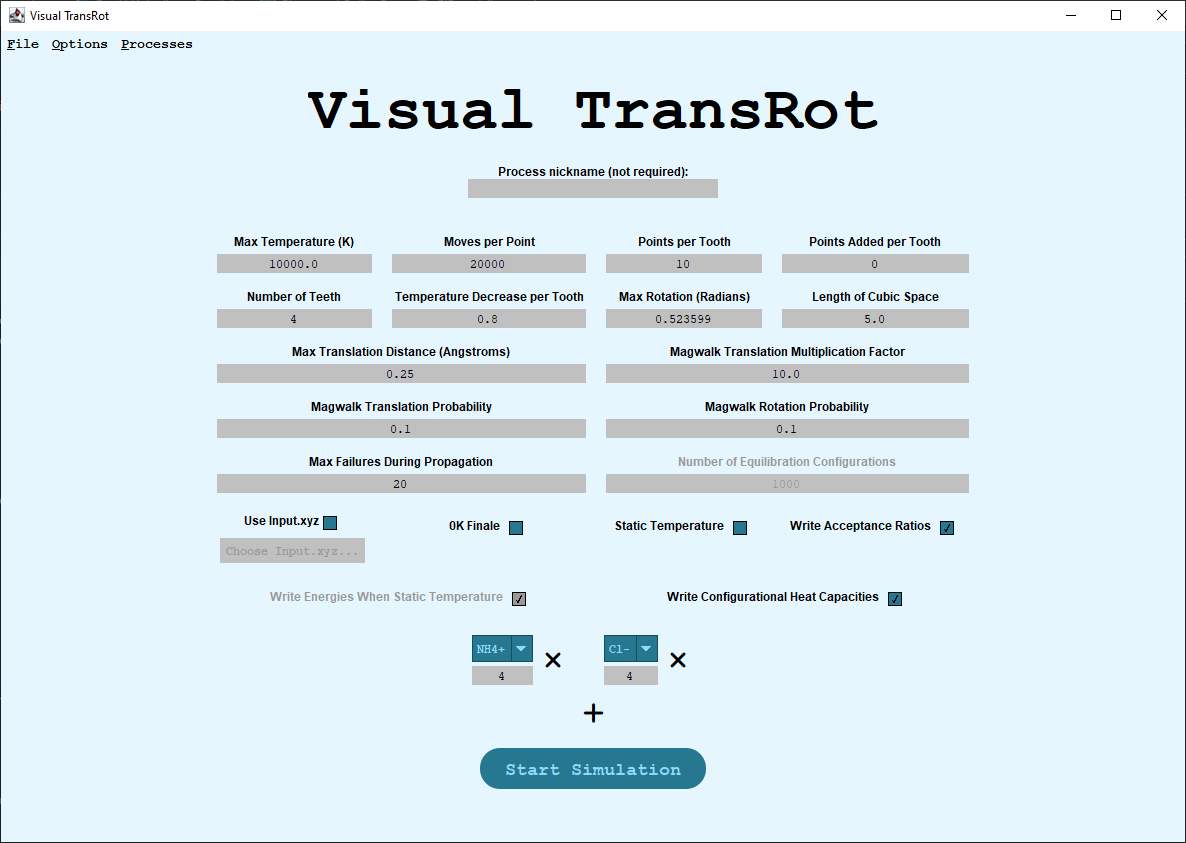
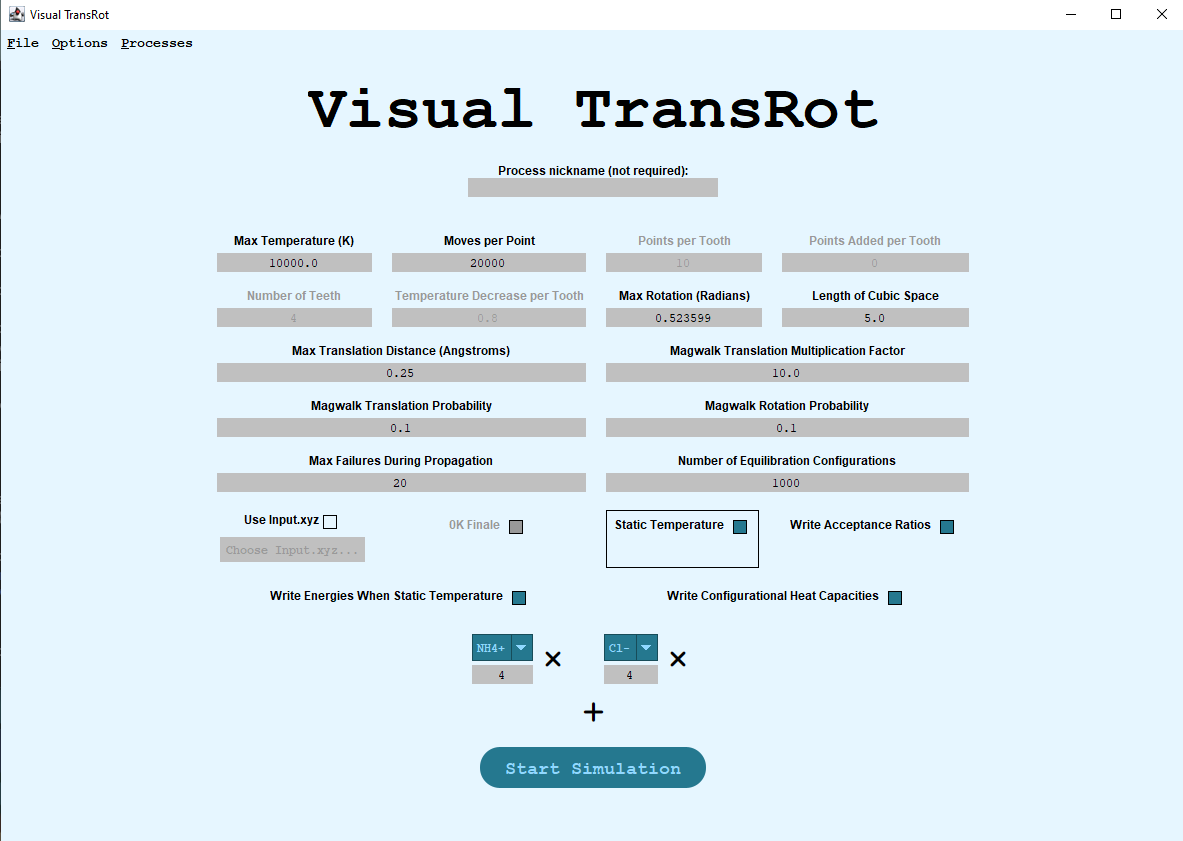
bugfixes

diff --git a/src/process/ProcessStruct.java b/src/process/ProcessStruct.java
@@ -25,6 +25,8 @@ public class ProcessStruct {
         }
     }
 
+    private long startTime = -1;
+
     private final List<ProcessLogListener> logListeners = new ArrayList<>();
     private final List<ProcessExitListener> exitListeners = new ArrayList<>();
 
@@ -37,7 +39,7 @@ public class ProcessStruct {
 
     private final List<String> stdoutLog = new ArrayList<>();
     private final List<String> stderrLog = new ArrayList<>();
-    private Map<String, Object> configMap = new LinkedHashMap<>();
+    private final Map<String, Object> configMap = new LinkedHashMap<>();
     private final Map<String, Integer> molCounts = new LinkedHashMap<>();
 
     private ProcessStatus status;
@@ -191,18 +193,20 @@ public class ProcessStruct {
     }
 
     private long getExecTimeLive() {
+        if (startTime == -1) startTime = System.currentTimeMillis();
         Duration dur = handle != null ?
                 handle.info().totalCpuDuration().orElse(null) :
                 null;
         if (dur == null) {
             // fallback to crude calculation of exec time
-            long currTime = System.currentTimeMillis() * (long) 1e6;
-            return currTime - timestamp;
+            long currTime = System.currentTimeMillis();
+            return (currTime - startTime) * (long) 1e6;
         }
         return dur.getSeconds() * (long) 1e9 + dur.getNano();
     }
 
     public String getExecTime() {
+        if (startTime == -1) startTime = System.currentTimeMillis();
         String ret;
         Duration dur = handle != null ?
                 handle.info().totalCpuDuration().orElse(null) :
@@ -213,8 +217,8 @@ public class ProcessStruct {
             } catch (Exception e) {
                 if (status == ProcessStatus.ALIVE) {
                     // fallback to crude calculation of exec time
-                    long currTime = System.currentTimeMillis() * (long) 1e6;
-                    long elapsed = currTime - timestamp;
+                    long currTime = System.currentTimeMillis();
+                    long elapsed = (currTime - startTime) * (long) 1e6;
                     ret = Globals.getDurationStringNanos(elapsed);
                 }
                 else ret = "Information Not Available";

diff --git a/src/util/CustomMetalCheckboxUI.java b/src/util/CustomMetalCheckboxUI.java
@@ -13,12 +13,14 @@ public class CustomMetalCheckboxUI extends MetalCheckBoxUI {
 
     private Color bgColor;
     private Color checkColor;
-    
-    public CustomMetalCheckboxUI(Color bgColor, Color checkColor) {
+    private Color checkColorDisabled;
+
+    public CustomMetalCheckboxUI(Color bgColor, Color checkColor, Color checkColorDisabled) {
         this.bgColor = bgColor;
         this.checkColor = checkColor;
+        this.checkColorDisabled = checkColorDisabled;
     }
-    
+
     public synchronized void paint(java.awt.Graphics g, javax.swing.JComponent c) {
 
         Dimension size = c.getSize();
@@ -30,16 +32,12 @@ public class CustomMetalCheckboxUI extends MetalCheckBoxUI {
         viewRect.y += i.top;
         viewRect.width -= (i.right + viewRect.x);
         viewRect.height -= (i.bottom + viewRect.y);
-        
-        g.setColor(c.isEnabled() ? bgColor : Globals.textColorDisabled);
+
+
+        g.setColor(((JCheckBox) c).isSelected() && c.isEnabled() ? checkColor : ((JCheckBox) c).isSelected() ? checkColorDisabled : c.isEnabled() ? bgColor : Globals.textColorDisabled);
         g.fillRect(viewRect.x, viewRect.y, viewRect.width, viewRect.height);
         g.setColor(Color.BLACK);
         g.drawRect(viewRect.x, viewRect.y, viewRect.width, viewRect.height);
-
-        if (((JCheckBox) c).isSelected()) {
-            g.setColor(checkColor);
-            g.fillRect(viewRect.x + viewRect.width / 4, viewRect.y + viewRect.height / 4, (int) (viewRect.width * 0.65), (int) (viewRect.height * 0.65));
-        }
     }
     
     public void setBgColor(Color c) {
@@ -48,5 +46,9 @@ public class CustomMetalCheckboxUI extends MetalCheckBoxUI {
 
     public void setCheckColor(Color c) {
         this.checkColor = c;
+    }
+
+    public void setCheckColorDisabled(Color c) {
+        this.checkColorDisabled = c;
     }
 }

diff --git a/src/config/StartGUI.java b/src/config/StartGUI.java
@@ -271,7 +271,7 @@ public class StartGUI extends JFrame {
                     }
                 });
                 checkBox.setOpaque(false);
-                CustomMetalCheckboxUI ui = new CustomMetalCheckboxUI(Globals.bgColor, Globals.accentColor);
+                CustomMetalCheckboxUI ui = new CustomMetalCheckboxUI(Globals.bgColor, Globals.accentColor, Color.BLACK);
                 checkBox.setUI(ui);
                 checkBox.setCursor(Cursor.getPredefinedCursor(Cursor.HAND_CURSOR));
                 checkBox.addMouseListener(new MouseAdapter() {

diff --git a/README.md b/README.md
@@ -19,12 +19,7 @@ Visual TransRot requires an installed Java Development Kit (JDK) of version 1.11
 ### Running VTR
 To simply use VTR on a system:
 1. Download the OS-specific package from [the latest release](../../releases/latest) and extract its files.
-2. **For MacOS and Linux:**\
-Open a terminal to the extracted folder, and run:
-    ```
-    chmod u+x *.jar
-    ```
-3. Either double click `vtr.jar` in your native file viewer, or use
+2. Either double click `vtr.jar` in your native file viewer, or use
     ```
     java -jar vtr.jar
     ```
